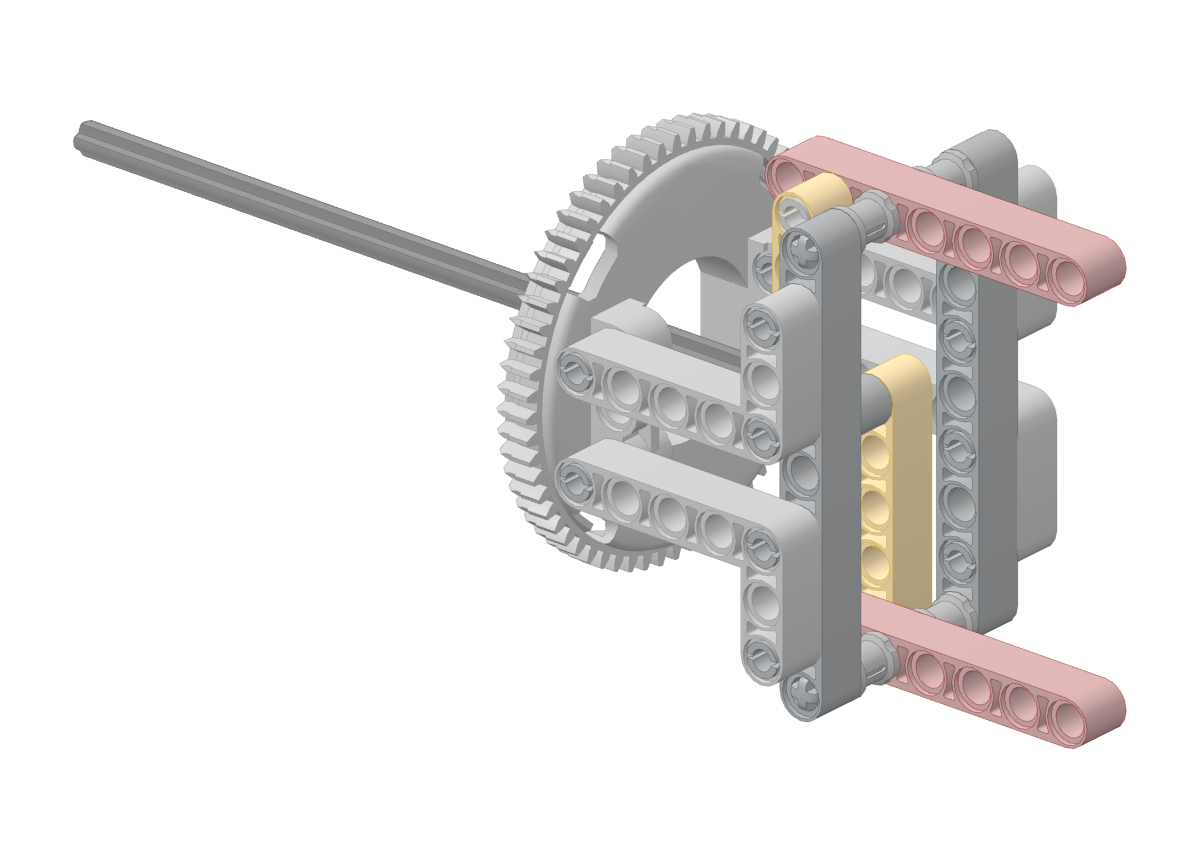
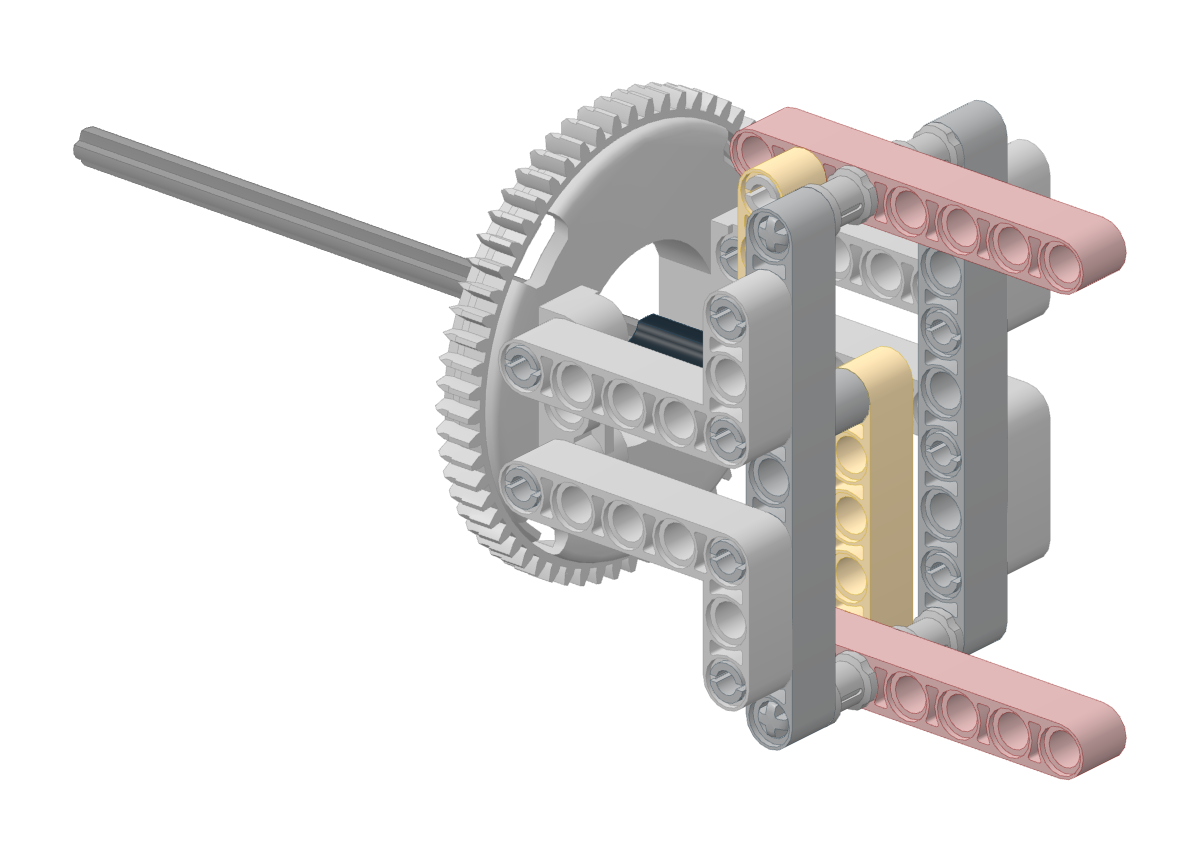
v3: 推杆改用 2 号轴 + 光面轴连接器 + 12 号轴接长（用户没有 16 号轴）
推杆插到十字接头底后至少要 13 孔长（12 号轴后端正好停在后轴承孔前面），乐高没有 13~15 号轴，
用户也没有 16 号。改为 2 号轴插十字接头，59443 光面轴连接器紧贴其后，再接 12 号轴，共 14 孔长。
连接器全行程只在转盘中孔里走，碰不到轴承孔；夹紧时后端穿出后轴承孔 1 个孔。

run_check 0 问题（含张开行程扫描），单元测试通过。

Claude-Session: https://claude.ai/code/session_01Ms6v6oKbLQsBqZ2uktk7cX

Changed region(s): [[0.0617, 0.0907, 0.9558, 0.907]]

diff --git a/docs/lego/v3/index.html b/docs/lego/v3/index.html
@@ -99,7 +99,7 @@ ul.plain{margin:0;padding-left:1.2em;display:grid;gap:6px;max-width:70ch}
 <h1>四臂整机: 死点锁紧夹爪 + 不随转的舵机</h1>
 <p class="lead">v2 解决了 "机械臂挂在马达输出轴上" 的问题, 但它仍然是一只单臂, 转动部分又长又重, 舵机跟着转。CubeStormer 3 这一级别的机器, 专业性体现在整机: 四只机械手又短又轻、夹得住也松得开、能连续旋转, 四只之间互不干涉。v3 按这个目标从整机重新设计, 自成一套模型和检查。之前的版本都保留不动: <a href="https://claude.ai/artifact/BWgtEpkX4PGRGnYzvNV2L4">v1 大马达版</a>、<a href="https://claude.ai/artifact/9yGEt1ogaxxmStkyxYWYBL">v2 转盘版</a>。</p>
 <div class="plate"><img src="img/cover.png" alt="四臂整机总览" class="" loading="lazy" width="1400" height="900"></div>
-<div class="facts"><div class="fact"><b>20</b><span>个步骤 (一个模块的完整步骤, 其余三个照做)</span></div><div class="fact"><b>544</b><span>个乐高零件, 另加 EV3 大马达和 Geekservo 各 4 个</span></div><div class="fact"><b>约 52 mm</b><span>转动部分长度 (v2 约 144mm)</span></div><div class="fact"><b>无限</b><span>机械手旋转范围 (舵机不跟着转)</span></div></div>
+<div class="facts"><div class="fact"><b>20</b><span>个步骤 (一个模块的完整步骤, 其余三个照做)</span></div><div class="fact"><b>552</b><span>个乐高零件, 另加 EV3 大马达和 Geekservo 各 4 个</span></div><div class="fact"><b>约 52 mm</b><span>转动部分长度 (v2 约 144mm)</span></div><div class="fact"><b>无限</b><span>机械手旋转范围 (舵机不跟着转)</span></div></div>
 <script type="importmap">{"imports":{"three":"./three/three.module.min.js","three/addons/":"./three/addons/"}}</script>
 <section id="v3d-sec" class="cover"><h2>3D 模型 (可旋转)</h2><p class="cap">拖动旋转, 滚轮或双指缩放, 右键或双指拖动平移。滑块选到第几步, 就显示到那一步为止的零件, 这一步新加的零件会提亮。键盘: <kbd>←</kbd> <kbd>→</kbd> 上一步/下一步, <kbd>Home</kbd> <kbd>End</kbd> 第一步/全部, <kbd>A</kbd> <kbd>D</kbd> 左右转, <kbd>W</kbd> <kbd>S</kbd> 上下转, <kbd>+</kbd> <kbd>-</kbd> 缩放, <kbd>R</kbd> 复位 (3D 区域在屏幕上时有效)。</p><div id="v3d" class="plate"><div id="v3d-status">正在加载 3D 模型 (约 0.6 MB)…</div></div><div class="v3d-bar"><input id="v3d-step" type="range" min="1" max="1" value="1" disabled aria-label="步骤"><span id="v3d-label"></span><button id="v3d-fit" type="button">复位</button></div><script>window.V3D_STEPS = ["底座", "竖墙", "马达底块", "马达前梁", "齿轮", "装马达", "转盘下半", "装竖墙", "舵机平台", "舵机", "装平台", "十字块和舵机连杆", "侧板与夹指架", "转盘上半", "夹指", "连杆与十字接头", "推杆", "装机械头", "装另外三个机械手", "放入魔方"];window.V3D_STEPMAP = [1, 2, 3, 4, 5, 6, 7, 8, 9, 10, 11, 12, 13, 14, 15, 16, 17, 19, 20];</script><script type="module" src="viewer.js"></script></section>
 <nav class="toc"><a href="#v3d-sec">3D 模型</a><a href="#eval">v2 评估</a><a href="#idea">设计思路</a><a href="#four">四臂检查</a><a href="#buy">要买的零件</a><a href="#bom">零件清单</a><a href="#s1">1. 底座</a><a href="#s2">2. 竖墙</a><a href="#s3">3. 马达底块</a><a href="#s4">4. 马达前梁</a><a href="#s5">5. 齿轮</a><a href="#s6">6. 装马达</a><a href="#s7">7. 转盘下半</a><a href="#s8">8. 装竖墙</a><a href="#s9">9. 舵机平台</a><a href="#s10">10. 舵机</a><a href="#s11">11. 装平台</a><a href="#s12">12. 十字块和舵机连杆</a><a href="#s13">13. 侧板与夹指架</a><a href="#s14">14. 转盘上半</a><a href="#s15">15. 夹指</a><a href="#s16">16. 连杆与十字接头</a><a href="#s17">17. 推杆</a><a href="#s18">18. 装机械头</a><a href="#s19">19. 装另外三个机械手</a><a href="#s20">20. 放入魔方</a><a href="#checks">检查与待验证</a><a href="#safety">上电前</a></nav>
@@ -121,7 +121,7 @@ ul.plain{margin:0;padding-left:1.2em;display:grid;gap:6px;max-width:70ch}
 <div class="note"><b>相邻两只机械手不能同时水平。</b>这是任何从外侧夹住魔方的夹爪都有的几何限制: 两只相邻机械手都转到水平时, 两副夹指会在魔方棱边外面的同一个位置相遇。v3 把它写进了规划器的可选约束 (<code>python -m quadcuber plan ... --no-adjacent-horizontal</code>): 转动中的机械手, 两侧邻居必须竖直且不同时转动。按现在的估算耗时, 20 步随机序列平均从 7.95 秒变成 9.69 秒 (约 +22%)。</div>
 </section>
 <section id="buy" class="cover"><h2>要买的零件</h2>
-<div class="tbl"><table><tr><th>零件</th><th>编号</th><th>整机</th><th>45680 里有</th><th>还要买</th><th>说明</th></tr><tr><td>60 齿转盘 上半 + 下半 (套)</td><td>18938 + 18939</td><td>4</td><td>2</td><td>2</td><td>每只机械手 1 套</td></tr><tr><td>24 齿直齿轮</td><td>3648</td><td>4</td><td>—</td><td>4</td><td>和转盘外圈啮合</td></tr><tr><td>15x11 大框</td><td>39790</td><td>4</td><td>4</td><td>不用买</td><td>底座, 每个模块 1 块</td></tr><tr><td>7x5 框架</td><td>64179</td><td>20</td><td>8</td><td>12</td><td>每个模块 5 块 (竖墙 3、推杆导向 1、平台前半 1)</td></tr><tr><td>3x5 L 形粗梁</td><td>32526</td><td>32</td><td>10</td><td>22</td><td>机械头侧板每侧 2 根, 平台支腿每侧 1 根, 底座每个角 1 根</td></tr><tr><td>15 孔粗梁</td><td>32278</td><td>16</td><td>6</td><td>10</td><td>平台下 2 根, 底座每个角 2 根</td></tr><tr><td>11 孔粗梁</td><td>32525</td><td>12</td><td>6</td><td>6</td><td>支腿竖梁、马达前端</td></tr><tr><td>9 孔粗梁</td><td>40490</td><td>8</td><td>8</td><td>不用买</td><td>马达前端、机械头</td></tr><tr><td>7 孔粗梁</td><td>32524</td><td>12</td><td>6</td><td>6</td><td>夹指、马达尾脚</td></tr><tr><td>5 孔粗梁</td><td>32316</td><td>28</td><td>8</td><td>20</td><td>舵机垫块、连杆、平台后端横撑</td></tr><tr><td>3 孔粗梁</td><td>32523</td><td>4</td><td>10</td><td>不用买</td><td>马达颈部</td></tr><tr><td>摩擦销</td><td>2780</td><td>256</td><td>80</td><td>176</td><td>多买一些备用</td></tr><tr><td>蓝色长摩擦销</td><td>6558</td><td>32</td><td>36</td><td>不用买</td><td></td></tr><tr><td>带挡套长销</td><td>32054</td><td>8</td><td>12</td><td>不用买</td><td>转盘下半和马达耳朵</td></tr><tr><td>无摩擦销 / 无摩擦长销</td><td>3673 / 32556a</td><td>—</td><td>—</td><td>—</td><td>夹爪的活动关节: 8 / 4</td></tr><tr><td>2 号 / 3 号 / 5 号 / 7 号 / 16 号轴</td><td>32062 / 4519 / 32073 / 44294 / 50451</td><td>—</td><td>—</td><td>—</td><td>4 / 4 / 8 / 4 / 4; 45680 里有 2 号 8、3 号 14</td></tr><tr><td>轴套 / 半轴套</td><td>3713 / 32123</td><td>—</td><td>—</td><td>—</td><td>20 / 32</td></tr><tr><td>角度连接器 1 号 (一头十字孔一头圆孔) / 十字块 1x2 / 2 孔细梁</td><td>32013 / 6536 / 41677</td><td>—</td><td>—</td><td>—</td><td>各 4</td></tr><tr><td>EV3 大马达 / Geekservo 灰色</td><td>—</td><td>—</td><td>—</td><td>—</td><td>4 / 4; 现在只有 2 个大马达, 还缺 2 个</td></tr></table></div>
+<div class="tbl"><table><tr><th>零件</th><th>编号</th><th>整机</th><th>45680 里有</th><th>还要买</th><th>说明</th></tr><tr><td>60 齿转盘 上半 + 下半 (套)</td><td>18938 + 18939</td><td>4</td><td>2</td><td>2</td><td>每只机械手 1 套</td></tr><tr><td>24 齿直齿轮</td><td>3648</td><td>4</td><td>—</td><td>4</td><td>和转盘外圈啮合</td></tr><tr><td>15x11 大框</td><td>39790</td><td>4</td><td>4</td><td>不用买</td><td>底座, 每个模块 1 块</td></tr><tr><td>7x5 框架</td><td>64179</td><td>20</td><td>8</td><td>12</td><td>每个模块 5 块 (竖墙 3、推杆导向 1、平台前半 1)</td></tr><tr><td>3x5 L 形粗梁</td><td>32526</td><td>32</td><td>10</td><td>22</td><td>机械头侧板每侧 2 根, 平台支腿每侧 1 根, 底座每个角 1 根</td></tr><tr><td>15 孔粗梁</td><td>32278</td><td>16</td><td>6</td><td>10</td><td>平台下 2 根, 底座每个角 2 根</td></tr><tr><td>11 孔粗梁</td><td>32525</td><td>12</td><td>6</td><td>6</td><td>支腿竖梁、马达前端</td></tr><tr><td>9 孔粗梁</td><td>40490</td><td>8</td><td>8</td><td>不用买</td><td>马达前端、机械头</td></tr><tr><td>7 孔粗梁</td><td>32524</td><td>12</td><td>6</td><td>6</td><td>夹指、马达尾脚</td></tr><tr><td>5 孔粗梁</td><td>32316</td><td>28</td><td>8</td><td>20</td><td>舵机垫块、连杆、平台后端横撑</td></tr><tr><td>3 孔粗梁</td><td>32523</td><td>4</td><td>10</td><td>不用买</td><td>马达颈部</td></tr><tr><td>摩擦销</td><td>2780</td><td>256</td><td>80</td><td>176</td><td>多买一些备用</td></tr><tr><td>蓝色长摩擦销</td><td>6558</td><td>32</td><td>36</td><td>不用买</td><td></td></tr><tr><td>带挡套长销</td><td>32054</td><td>8</td><td>12</td><td>不用买</td><td>转盘下半和马达耳朵</td></tr><tr><td>无摩擦销 / 无摩擦长销</td><td>3673 / 32556a</td><td>—</td><td>—</td><td>—</td><td>夹爪的活动关节: 8 / 4</td></tr><tr><td>2 号 / 3 号 / 5 号 / 7 号 / 12 号轴</td><td>32062 / 4519 / 32073 / 44294 / 3708</td><td>—</td><td>—</td><td>—</td><td>8 / 4 / 8 / 4 / 4; 45680 里有 2 号 8、3 号 14</td></tr><tr><td>轴连接器 (光面)</td><td>59443</td><td>4</td><td>—</td><td>4</td><td>推杆接长, 4</td></tr><tr><td>轴套 / 半轴套</td><td>3713 / 32123</td><td>—</td><td>—</td><td>—</td><td>20 / 32</td></tr><tr><td>角度连接器 1 号 (一头十字孔一头圆孔) / 十字块 1x2 / 2 孔细梁</td><td>32013 / 6536 / 41677</td><td>—</td><td>—</td><td>—</td><td>各 4</td></tr><tr><td>EV3 大马达 / Geekservo 灰色</td><td>—</td><td>—</td><td>—</td><td>—</td><td>4 / 4; 现在只有 2 个大马达, 还缺 2 个</td></tr></table></div>
 <p class="cap">"45680 里有" 按 Brickset 的 45680 (SPIKE Prime 扩展套装) 零件清单, 不分颜色; 最后几行 45680 里没有或数量对不上型号的, 按 "说明" 里的数量买。你手上其他零件没算进去。</p>
 <p class="cap">可以先只搭一个模块 (底座只要它那一块大框) 做单臂实测, 验证夹持和转速后再买齐四套。</p>
 </section>
@@ -144,6 +144,7 @@ ul.plain{margin:0;padding-left:1.2em;display:grid;gap:6px;max-width:70ch}
 <div class="item"><img src="img/part_39790_72.png" alt="15x11 大框 (45680 套装)" class="" loading="lazy" width="260" height="200"><div class="qty">4×</div><div>15x11 大框 (45680 套装)</div><div class="mono">39790</div></div>
 <div class="item"><img src="img/part_40490_0.png" alt="9 孔粗梁" class="" loading="lazy" width="260" height="200"><div class="qty">8×</div><div>9 孔粗梁</div><div class="mono">40490</div></div>
 <div class="item"><img src="img/part_41677_0.png" alt="2 孔细梁 (两端十字孔)" class="" loading="lazy" width="260" height="200"><div class="qty">4×</div><div>2 孔细梁 (两端十字孔)</div><div class="mono">41677</div></div>
+<div class="item"><img src="img/part_59443_0.png" alt="轴连接器 (光面, 两头十字孔)" class="" loading="lazy" width="260" height="200"><div class="qty">4×</div><div>轴连接器 (光面, 两头十字孔)</div><div class="mono">59443</div></div>
 <div class="item"><img src="img/part_64179_71.png" alt="7x5 框架" class="" loading="lazy" width="260" height="200"><div class="qty">20×</div><div>7x5 框架</div><div class="mono">64179</div></div>
 <div class="item"><img src="img/part_6536_0.png" alt="十字块 1x2 (十字孔 + 圆孔)" class="" loading="lazy" width="260" height="200"><div class="qty">4×</div><div>十字块 1x2 (十字孔 + 圆孔)</div><div class="mono">6536</div></div>
 <div class="item"><img src="img/part_95658_15.png" alt="EV3 大马达" class="" loading="lazy" width="260" height="200"><div class="qty">4×</div><div>EV3 大马达</div><div class="mono">95658</div></div>
@@ -151,14 +152,15 @@ ul.plain{margin:0;padding-left:1.2em;display:grid;gap:6px;max-width:70ch}
 <div class="item"><img src="img/part_2780_0.png" alt="摩擦销 (2 孔长)" class="" loading="lazy" width="260" height="200"><div class="qty">256×</div><div>摩擦销 (2 孔长)</div><div class="mono">2780</div></div>
 <div class="item"><img src="img/part_32054_4.png" alt="带挡套长销 (3 孔长, 红色)" class="" loading="lazy" width="260" height="200"><div class="qty">8×</div><div>带挡套长销 (3 孔长, 红色)</div><div class="mono">32054</div></div>
 <div class="item"><img src="img/part_32062_0.png" alt="2 号轴" class="" loading="lazy" width="260" height="200"><div class="qty">4×</div><div>2 号轴</div><div class="mono">32062</div></div>
+<div class="item"><img src="img/part_32062_71.png" alt="2 号轴" class="" loading="lazy" width="260" height="200"><div class="qty">4×</div><div>2 号轴</div><div class="mono">32062</div></div>
 <div class="item"><img src="img/part_32073_0.png" alt="5 号轴" class="" loading="lazy" width="260" height="200"><div class="qty">8×</div><div>5 号轴</div><div class="mono">32073</div></div>
 <div class="item"><img src="img/part_32123a_72.png" alt="半轴套" class="" loading="lazy" width="260" height="200"><div class="qty">32×</div><div>半轴套</div><div class="mono">32123a</div></div>
 <div class="item"><img src="img/part_32556a_19.png" alt="无摩擦长销 (3 孔长, 米色)" class="" loading="lazy" width="260" height="200"><div class="qty">4×</div><div>无摩擦长销 (3 孔长, 米色)</div><div class="mono">32556a</div></div>
 <div class="item"><img src="img/part_3673_71.png" alt="无摩擦销 (2 孔长, 灰色)" class="" loading="lazy" width="260" height="200"><div class="qty">8×</div><div>无摩擦销 (2 孔长, 灰色)</div><div class="mono">3673</div></div>
+<div class="item"><img src="img/part_3708_71.png" alt="12 号轴" class="" loading="lazy" width="260" height="200"><div class="qty">4×</div><div>12 号轴</div><div class="mono">3708</div></div>
 <div class="item"><img src="img/part_3713_72.png" alt="轴套" class="" loading="lazy" width="260" height="200"><div class="qty">20×</div><div>轴套</div><div class="mono">3713</div></div>
 <div class="item"><img src="img/part_44294_0.png" alt="7 号轴" class="" loading="lazy" width="260" height="200"><div class="qty">4×</div><div>7 号轴</div><div class="mono">44294</div></div>
 <div class="item"><img src="img/part_4519_0.png" alt="3 号轴" class="" loading="lazy" width="260" height="200"><div class="qty">4×</div><div>3 号轴</div><div class="mono">4519</div></div>
-<div class="item"><img src="img/part_50451_71.png" alt="16 号轴" class="" loading="lazy" width="260" height="200"><div class="qty">4×</div><div>16 号轴</div><div class="mono">50451</div></div>
 <div class="item"><img src="img/part_6558_1.png" alt="长摩擦销 (3 孔长)" class="" loading="lazy" width="260" height="200"><div class="qty">32×</div><div>长摩擦销 (3 孔长)</div><div class="mono">6558</div></div>
 </div></section>
 <h2>搭建步骤</h2>
@@ -325,9 +327,9 @@ ul.plain{margin:0;padding-left:1.2em;display:grid;gap:6px;max-width:70ch}
 <div class="subtag">子组件 · 机械头</div>
 <h3>推杆</h3></div>
 </div>
-<div class="callout"><div class="chip"><img src="img/part_50451_71.png" alt="16 号轴" class="" loading="lazy" width="260" height="200"><div class="x">1×</div><div class="n">16 号轴</div></div></div>
+<div class="callout"><div class="chip"><img src="img/part_32062_71.png" alt="2 号轴" class="" loading="lazy" width="260" height="200"><div class="x">1×</div><div class="n">2 号轴</div></div><div class="chip"><img src="img/part_59443_0.png" alt="轴连接器 (光面, 两头十字孔)" class="" loading="lazy" width="260" height="200"><div class="x">1×</div><div class="n">轴连接器 (光面, 两头十字孔)</div></div><div class="chip"><img src="img/part_3708_71.png" alt="12 号轴" class="" loading="lazy" width="260" height="200"><div class="x">1×</div><div class="n">12 号轴</div></div></div>
 <div class="plate"><img src="img/step17.png" alt="推杆" class="" loading="lazy" width="1200" height="860"></div>
-<p>16 号轴插进十字接头后端的十字孔, 一直插到底。</p>
+<p>推杆用 12 号轴接长: 2 号轴插进十字接头后端的十字孔, 插到底; 2 号轴露出的一头套上一个轴连接器 (两头都是十字孔的光面短管), 再把 12 号轴插进连接器另一头, 插到底 (两根轴在连接器中间顶住)。</p>
 </section>
 <section class="step" id="s18">
 <div class="step-head">

diff --git a/tools/lego/v3/model.py b/tools/lego/v3/model.py
@@ -126,6 +126,7 @@ CATALOG = {
     "44294.dat": ("7 号轴", "axle"),
     "3708.dat": ("12 号轴", "axle"),
     "50451.dat": ("16 号轴", "axle"),
+    "59443.dat": ("轴连接器 (光面, 两头十字孔)", "solid"),
     "3713.dat": ("轴套", "bush"),
     "32123a.dat": ("半轴套", "bush"),
     "cube56.dat": ("56mm 魔方 (示意)", "other"),
@@ -517,10 +518,15 @@ def module(open_s=0.0, angle=0.0, steps=True, on_base=False):
         zl = 20.0 * sy
         hadd("32316.dat", C_LINK, (c + j) / 2 + [0, 0, zl], orient(np.cross([0, 0, 1.0], d), "+z", d), s)
         hadd("3673.dat", C_FPIN, j + [0, 0, 10 * sy], ALONG_Z, s)
-    # 推杆用 16 号轴: 12 号轴插到底后, 后端只剩 1 孔多, 退不到导向框架后面的轴承孔 (2026-09-29 用户实物)
-    s = st("推杆", "16 号轴插进十字接头后端的十字孔, 一直插到底。", sub="机械头", view=(40, 25))
+    # 推杆至少要 13 孔长: 12 号轴插到十字接头底后, 后端正好停在导向框架后轴承孔的前面 (0 孔深)。
+    # 乐高没有 13~15 号轴, 用户也没有 16 号 (2026-09-29), 所以用 12 号轴 + 光面轴连接器 59443 + 2 号轴接长到 14 孔:
+    # 2 号轴插进十字接头, 连接器紧贴在十字接头后面, 行程里连接器只在转盘中孔里前后走, 碰不到轴承孔。
+    s = st("推杆", "推杆用 12 号轴接长: 2 号轴插进十字接头后端的十字孔, 插到底; 2 号轴露出的一头套上一个轴连接器 (两头都是十字孔的光面短管), "
+           "再把 12 号轴插进连接器另一头, 插到底 (两根轴在连接器中间顶住)。", sub="机械头", view=(40, 25))
     rod_front = xc - 30 + ROD_FRONT_IN
-    hadd("50451.dat", C_ROD, (rod_front - 160, 0, 0), ALONG_X, s)
+    hadd("32062.dat", C_ROD, (rod_front - 20, 0, 0), ALONG_X, s)
+    hadd("59443.dat", C_BEAM, (rod_front - 40, 0, 0), BUSH_X, s)
+    hadd("3708.dat", C_ROD, (rod_front - 160, 0, 0), ALONG_X, s)
     st("装机械头", "推杆从转盘下半的中孔往后穿, 依次穿过导向框架前面的轴承孔、半轴套、十字块、半轴套、后面的轴承孔。"
        "转盘上半对准下半扣上 (两半本身卡在一起, 不用销)。最后定死点: 舵机转到 \"夹紧\" (曲柄和舵机连杆拉成一条直线), "
        "用手把推杆往前推, 直到两根黄色连杆和推杆垂直、两片夹指合到最紧, 按住不动, 再把十字块两边的半轴套推到贴住十字块。"

diff --git a/tools/lego/v3/booklet.py b/tools/lego/v3/booklet.py
@@ -391,7 +391,8 @@ def write_html(parts, step_new, keys, subs):
            ("蓝色长摩擦销", "6558", "6558.dat", ""),
            ("带挡套长销", "32054", "32054.dat", "转盘下半和马达耳朵"),
            ("无摩擦销 / 无摩擦长销", "3673 / 32556a", None, "夹爪的活动关节: 8 / 4"),
-           ("2 号 / 3 号 / 5 号 / 7 号 / 16 号轴", "32062 / 4519 / 32073 / 44294 / 50451", None, "4 / 4 / 8 / 4 / 4; 45680 里有 2 号 8、3 号 14"),
+           ("2 号 / 3 号 / 5 号 / 7 号 / 12 号轴", "32062 / 4519 / 32073 / 44294 / 3708", None, "8 / 4 / 8 / 4 / 4; 45680 里有 2 号 8、3 号 14"),
+           ("轴连接器 (光面)", "59443", "59443.dat", "推杆接长, 4"),
            ("轴套 / 半轴套", "3713 / 32123", None, "20 / 32"),
            ("角度连接器 1 号 (一头十字孔一头圆孔) / 十字块 1x2 / 2 孔细梁", "32013 / 6536 / 41677", None, "各 4"),
            ("EV3 大马达 / Geekservo 灰色", "—", None, "4 / 4; 现在只有 2 个大马达, 还缺 2 个")]

diff --git a/docs/lego/v3/README.md b/docs/lego/v3/README.md
@@ -106,6 +106,6 @@ v3 两处都照官方做：
 
 ## 2026-09-29 实物反馈：推杆和舵机连杆
 
-- 推杆原来是 12 号轴、只插进十字接头一半。实物会插到底，十字接头就往后差半个孔，舵机到“夹紧”时连杆到不了垂直（死点）。改为插到底，并换成 16 号轴（50451），否则后端退不到导向框架后面的轴承孔。
+- 推杆原来是 12 号轴、只插进十字接头一半。实物会插到底，十字接头就往后差半个孔，舵机到“夹紧”时连杆到不了垂直（死点）。改为插到底。插到底后 12 号轴的后端正好停在导向框架后轴承孔前面（0 孔深），至少要 13 孔长；乐高没有 13~15 号轴，用户也没有 16 号，所以用 2 号轴 + 光面轴连接器 59443 + 12 号轴接成 14 孔长：2 号轴插进十字接头，连接器紧贴在十字接头后面，行程里只在转盘中孔里走，碰不到轴承孔；夹紧时 12 号轴后端穿出后轴承孔 1 个孔。
 - 死点靠十字块两边半轴套的位置决定：装机械头时先把舵机转到夹紧，手推推杆到连杆和推杆垂直，按住再推紧半轴套。
 - 舵机连杆两头的轴原来没有挡，会滑出来。十字块那头改成 3 号轴、两头各一个半轴套；曲柄那头 2 号轴在连杆外面加一个半轴套。
